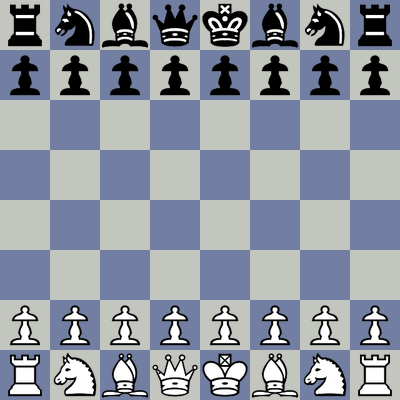
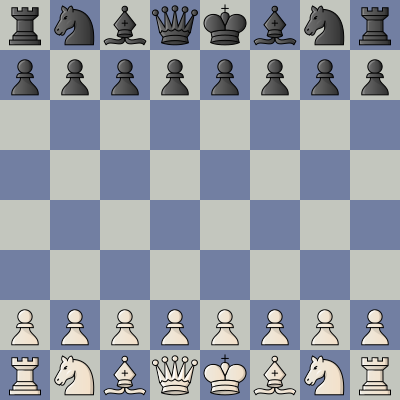
improve chess pieces in uscf theme

diff --git a/chessboard_image/generator.py b/chessboard_image/generator.py
@@ -14,7 +14,7 @@ from pathlib import Path
 import tempfile
 import pkg_resources
 
-__version__ = "1.1.4"
+__version__ = "1.1.5"
 __author__ = "Anand Joshi"
 __email__ = "anandhjoshi@outlook.com"
 

diff --git a/README.md b/README.md
@@ -209,6 +209,9 @@ This project is licensed under the MIT License - see the [LICENSE](LICENSE) file
 
 ## Changelog
 
+### 1.1.5
+- Updated USCF theme with improved piece designs
+
 ### 1.1.4
 - Fixed transparency handling for grayscale piece images (LA mode)
 - Now supports RGBA, LA, PA and any image mode with alpha channel
